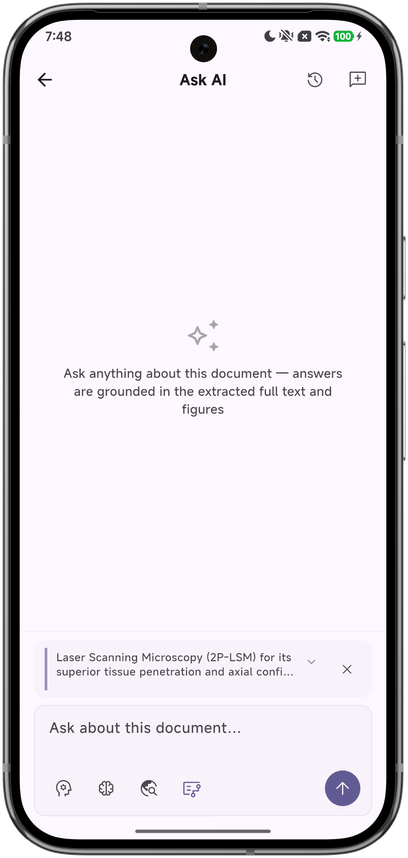
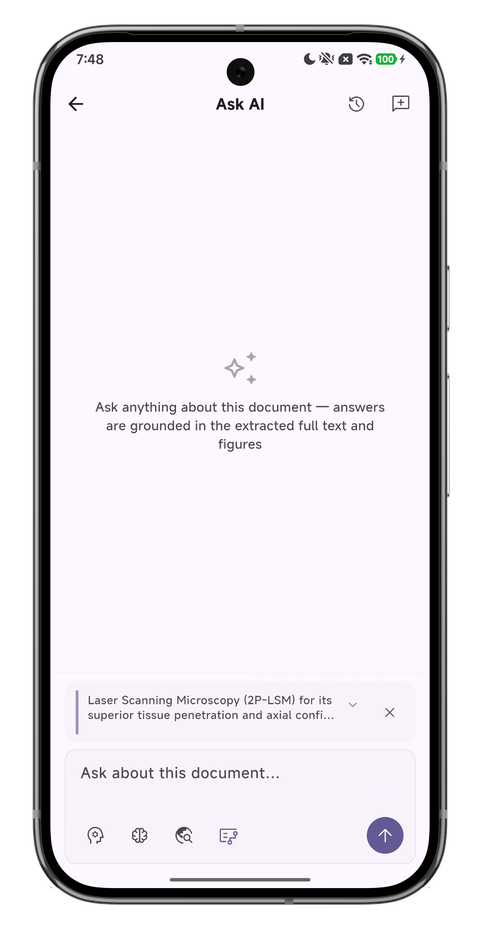
docs(readme): rewrite readmes with natural tone

diff --git a/scripts/frame_screenshots.py b/scripts/frame_screenshots.py
@@ -1,0 +1,82 @@
+"""将 docs 下的手机截图套上 Google Pixel 9 Pro 机框。
+
+机框资源：scripts/device_frames/pixel9pro_obsidian.png
+来源：https://github.com/jamesjingyi/mockup-device-frames (Pixel 9 Pro Obsidian)
+"""
+
+from __future__ import annotations
+
+from pathlib import Path
+
+from PIL import Image
+
+ROOT = Path(__file__).resolve().parent.parent
+DOCS = ROOT / "docs"
+FRAME_PATH = Path(__file__).resolve().parent / "device_frames" / "pixel9pro_obsidian.png"
+
+# Pixel 9 Pro Obsidian frame：透明洞为屏幕区域
+# frame size 1620x3136, screen hole (170, 142) – (1449, 2997) = 1280x2856
+SCREEN = (170, 142, 1449, 2997)  # left, top, right, bottom inclusive
+
+# README 展示用输出宽度（保持比例）
+OUT_WIDTH = 480
+
+SOURCES = [
+    "PDF_reader.png",
+    "immersive_reading_experience.png",
+    "extract_figures_for_reading.png",
+    "ask_anything_with_fullcontext.png",
+]
+
+
+def frame_screenshot(src_path: Path, frame: Image.Image, out_path: Path) -> None:
+    src = Image.open(src_path).convert("RGBA")
+    sw, sh = src.size
+
+    sl, st, sr, sb = SCREEN
+    tw, th = sr - sl + 1, sb - st + 1
+
+    # cover-fit 填满屏幕后居中裁切
+    scale = max(tw / sw, th / sh)
+    nw, nh = int(sw * scale + 0.5), int(sh * scale + 0.5)
+    src_r = src.resize((nw, nh), Image.Resampling.LANCZOS)
+    left = (nw - tw) // 2
+    top = (nh - th) // 2
+    src_r = src_r.crop((left, top, left + tw, top + th))
+
+    canvas = Image.new("RGBA", frame.size, (0, 0, 0, 0))
+    canvas.paste(src_r, (sl, st))
+    # 机框叠在上方：边框/侧键/挖孔摄像头盖住截图
+    result = Image.alpha_composite(canvas, frame)
+
+    # 缩到 README 友好尺寸
+    out_h = int(result.height * OUT_WIDTH / result.width + 0.5)
+    result = result.resize((OUT_WIDTH, out_h), Image.Resampling.LANCZOS)
+    result.save(out_path, "PNG", optimize=True)
+    print(f"  -> {out_path.name} {result.size}")
+
+
+def main() -> None:
+    if not FRAME_PATH.exists():
+        raise SystemExit(
+            f"缺少机框: {FRAME_PATH}\n"
+            "请从 jamesjingyi/mockup-device-frames 下载 Pixel 9 Pro Obsidian PNG。"
+        )
+
+    frame = Image.open(FRAME_PATH).convert("RGBA")
+    print(f"机框: {FRAME_PATH.name} {frame.size}")
+
+    for name in SOURCES:
+        src = DOCS / name
+        if not src.exists():
+            print(f"  skip missing {name}")
+            continue
+        out = DOCS / name.replace(".png", "_framed.png")
+        print(f"Framing {name}...")
+        frame_screenshot(src, frame, out)
+
+    print("Done.")
+
+
+if __name__ == "__main__":
+    main()

diff --git a/README.md b/README.md
@@ -4,7 +4,7 @@
 
 # OtterPad
 
-**AI-Powered Academic Literature Reader & Manager**
+**Mobile Academic Literature Reader & Manager**
 
 [![Flutter](https://img.shields.io/badge/Flutter-3.x-02569B?logo=flutter&logoColor=white)](https://flutter.dev)
 [![License](https://img.shields.io/github/license/Cyli00/NightReader)](./LICENSE)
@@ -14,74 +14,81 @@ English | [简体中文](docs/README_zh.md)
 
 </div>
 
-## What is this?
+## Why OtterPad?
 
-OtterPad is an academic literature reading and management tool with integrated AI workflows, helping researchers efficiently read, understand, and manage papers.
+Reading PDF papers on a phone is a miserable experience — cramped layout, tiny text, constant zooming and panning. Some reading apps can reflow imported PDFs into HTML for easier reading (WeChat Reading, Apple Books, Kindle), but the reflow often breaks the page structure and drops figures and tables, making things worse instead of better. With what AI can do today, reading academic papers on mobile should be comfortable and interactive.
 
-- 📖 Immersive PDF reading with customizable themes and typography
-- 🤖 AI-powered full-text Q&A grounded in extracted text and figures
-- 🌐 Document-level paragraph translation preserving formulas and code blocks
-- 🔍 Multi-source literature search and metadata resolution
-- 📊 Intelligent figure/table extraction and standalone viewing
+OtterPad uses PaddleOCR-VL under the hood to power a figure extraction and layout reflow engine that adapts PDF content for small screens while keeping figures, tables, and formulas intact. Full-text translation and AI Q&A round it out, so you can actually get through a paper on your phone.
 
 <div align="center">
 
-| Immersive Reading | AI Full-Text Q&A |
+| PDF Reader | Immersive Reading |
 |:---:|:---:|
-| <img src="./docs/immersive_reading_experience_framed.png" width="280px"/> | <img src="./docs/ask_anything_with_fullcontext_framed.png" width="280px"/> |
+| <img src="./docs/PDF_reader_framed.png" width="280px" alt="PDF Reader"/> | <img src="./docs/immersive_reading_experience_framed.png" width="280px" alt="Immersive Reading"/> |
+
+| Figure Extraction | AI Full-Text Q&A |
+|:---:|:---:|
+| <img src="./docs/extract_figures_for_reading_framed.png" width="280px" alt="Figure Extraction"/> | <img src="./docs/ask_anything_with_fullcontext_framed.png" width="280px" alt="AI Full-Text Q&A"/> |
 
 </div>
 
-## Features
+## What It Does
 
-### Reading & Translation
-- **Immersive Reading** — Customizable theme colors, font sizes, highlighting and annotations
-- **Paragraph-Level Translation** — 8 concurrent workers translating paragraph by paragraph, automatically protecting formulas / code / citation numbers
-- **Figure Extraction** — Accurately identifies figures and tables in PDFs for standalone viewing and copying
+### Reading & Reflow
 
-### AI Understanding
-- **Full-Text Q&A** — AI answers any question about the document, grounded in extracted full text and figures
-- **Multi-Model Support** — OpenAI / Anthropic / Google / compatible APIs, switch freely
-- **Smart Summary** — AI-generated key takeaways from papers
+- PDF layout reflow optimized for mobile screens, preserving figures, tables, and formulas
+- Customizable themes, font sizing, with highlighting and annotation support
 
-### Literature Management
-- **Multi-Source Search** — Search via DOI / PubMed / Crossref / Semantic Scholar and more
-- **AI Rename** — Intelligent file naming based on metadata
-- **Collections & Tags** — Custom categorization and tagging system
-- **Zotero Sync** — Two-way sync with your Zotero library
+### Figure Extraction
 
-### Data Safety
-- **Cloud Backup** — S3 / WebDAV cloud backup and restore
-- **Auto Backup** — Configurable scheduled automatic backups
+- Automatic figure and table detection and extraction powered by PaddleOCR-VL
+- Standalone viewing, copying, and sharing of extracted figures
+
+### Translation & Q&A
+
+- Document-level paragraph translation with automatic protection of formulas, code blocks, and citation markers
+- Full-text Q&A grounded in the extracted text and figures, reducing hallucination
+- Supports OpenAI, Anthropic, Google, and compatible API providers
+
+### Paper Management
+
+- Multi-source search and metadata resolution via DOI, PubMed, Crossref, Semantic Scholar, etc.
+- AI-powered file renaming, custom categories and tags, two-way Zotero sync
+- Cloud backup and restore (S3 / WebDAV) with configurable auto-backup
 
 ## Installation
 
-Download the APK for your architecture from [Releases](https://github.com/Cyli00/NightReader/releases):
+Grab the APK for your architecture from [Releases](https://github.com/Cyli00/NightReader/releases):
 - `arm64-v8a` — Most modern Android devices
 - `armeabi-v7a` — Older 32-bit devices
 - `x86_64` — Emulators / ChromeOS
 
-> Desktop and iOS builds are planned but not yet available.
+> Desktop and iOS builds are in progress.
 
-## Tech Stack
+## Development
 
-- **Framework** — Flutter 3.x + Dart 3.x
-- **State Management** — Riverpod
-- **Routing** — GoRouter
-- **Storage** — Hive (local) + Flutter Secure Storage (credentials)
-- **Networking** — Dio + HTTP/2
-- **Design Language** — Material Design 3
+This project was built with the help of [Claude Code](https://claude.com/claude-code), using Flutter 3.x + Dart 3.x.
+
+| Layer | Stack |
+| :--- | :--- |
+| Framework | Flutter 3.x + Dart 3.x |
+| State Management | Riverpod |
+| Routing | GoRouter |
+| Local Storage | Hive + Flutter Secure Storage (credentials) |
+| Networking | Dio + HTTP/2 |
+| OCR / Layout Analysis | PaddleOCR-VL |
+| Design | Material Design 3 |
 
 ## Acknowledgements
 
-OtterPad stands on the shoulders of these excellent open-source projects and communities:
+These projects and communities provided valuable reference and support:
 
 - [PiliPlus](https://github.com/bggRGjQaUbCoE/PiliPlus) — Third-party BiliBili client built with Flutter
 - [PDFMathTranslate](https://github.com/PDFMathTranslate/PDFMathTranslate) — AI-powered PDF translation preserving full layout (EMNLP 2025)
 - [FlClash](https://github.com/chen08209/FlClash) — Multi-platform proxy client based on ClashMeta
 - [Kelivo](https://github.com/Chevey339/kelivo) — Multi-platform LLM chat client built with Flutter
-- [LINUX DO](https://linux.do/) — A sincere, friendly, united, and professional tech community for invaluable feedback and support
+- [LINUX DO](https://linux.do/) — A sincere, friendly, and professional tech community for invaluable feedback and support
 
 ## License
 
-This project is licensed under [GPL-3.0](./LICENSE).
+Licensed under [GPL-3.0](./LICENSE).

diff --git a/docs/README_zh.md b/docs/README_zh.md
@@ -4,7 +4,7 @@
 
 # 獭祭鱼 OtterPad
 
-**AI 驱动的学术文献阅读与管理工具**
+**移动端学术文献阅读与管理工具**
 
 [![Flutter](https://img.shields.io/badge/Flutter-3.x-02569B?logo=flutter&logoColor=white)](https://flutter.dev)
 [![License](https://img.shields.io/github/license/Cyli00/NightReader)](../LICENSE)
@@ -14,67 +14,74 @@
 
 </div>
 
-## 这是什么？
+## 项目背景
 
-OtterPad 是一款学术文献阅读与管理工具，集成 AI 工作流，帮助科研工作者高效阅读、理解和管理文献。
+在手机上读 PDF 论文是个很折磨的过程——排版挤、字号小、来回缩放。市面上一些阅读软件虽然能把导入的 PDF 文件重排为 html 格式阅读（如微信读书、Apple Books、Kindle），但重排之后版面乱、图表丢，读着反而更费劲。AI 发展到今天，应该让学术文献在移动端也能舒服地读、方便地交互。
 
-- 📖 沉浸式 PDF 阅读，自定义主题与排版
-- 🤖 AI 全文问答，基于提取的完整文本和图表回答问题
-- 🌐 文档级段落翻译，保留公式与代码块
-- 🔍 多数据源文献搜索与元数据解析
-- 📊 图表智能提取与独立浏览
+OtterPad 在 PaddleOCR-VL 的基础上做了一套图表提取与版面重排引擎，把 PDF 转成适合小屏阅读的排版，同时保留图表和公式。再加上全文翻译和 AI 问答，让读论文这件事在手机上不再痛苦。
 
 <div align="center">
 
-| 沉浸式阅读 | AI 全文问答 |
+| PDF 阅读 | 沉浸式阅读 |
 |:---:|:---:|
-| <img src="./immersive_reading_experience_framed.png" width="280px"/> | <img src="./ask_anything_with_fullcontext_framed.png" width="280px"/> |
+| <img src="./PDF_reader_framed.png" width="280px" alt="PDF 阅读"/> | <img src="./immersive_reading_experience_framed.png" width="280px" alt="沉浸式阅读"/> |
+
+| 图表提取 | AI 全文问答 |
+|:---:|:---:|
+| <img src="./extract_figures_for_reading_framed.png" width="280px" alt="图表提取"/> | <img src="./ask_anything_with_fullcontext_framed.png" width="280px" alt="AI 全文问答"/> |
 
 </div>
 
-## 功能特性
+## 主要功能
 
-### 阅读与翻译
-- **沉浸式阅读** — 自定义主题配色、字号排版，支持高亮与标注
-- **段落级翻译** — 8 并发 worker 逐段翻译，自动保护公式/代码/引用编号
-- **图表提取** — 精准识别 PDF 中的 figure/table，支持独立查看和复制
+### 阅读与重排
 
-### AI 理解
-- **全文问答** — 基于提取的完整文本与图表，AI 回答关于文档的任何问题
-- **多模型支持** — OpenAI / Anthropic / Google / 兼容 API，自由切换
-- **智能摘要** — AI 生成文献要点总结
+- PDF 版面重排，适配移动端小屏阅读，保留图表和公式
+- 自定义主题配色、字号排版，支持高亮与批注
+
+### 图表提取
+
+- 基于 PaddleOCR-VL 自动识别和提取 PDF 中的图表
+- 图表独立查看、复制、分享
+
+### 翻译与问答
+
+- 文档级段落翻译，自动保护公式、代码块和引用编号
+- 全文 AI 问答，基于提取后的完整文本和图表回答，降低幻觉
+- 支持 OpenAI / Anthropic / Google 等多种模型
 
 ### 文献管理
-- **多源搜索** — 通过 DOI / PubMed / Crossref / Semantic Scholar 等检索文献
-- **AI 重命名** — 基于元数据的智能文件命名
-- **分类收藏** — 自定义分类体系与标签
-- **Zotero 同步** — 双向同步 Zotero 文献库
 
-### 数据安全
-- **云备份** — 支持 S3 / WebDAV 云端备份与恢复
-- **自动备份** — 可配置的定时自动备份策略
+- DOI / PubMed / Crossref / Semantic Scholar 等多源检索与元数据解析
+- AI 自动命名、分类标签、Zotero 双向同步
+- 云备份与恢复（S3 / WebDAV），支持定时自动备份
 
 ## 安装
 
-前往 [Releases](https://github.com/Cyli00/NightReader/releases) 下载对应架构的 APK：
+从 [Releases](https://github.com/Cyli00/NightReader/releases) 下载对应架构的 APK：
 - `arm64-v8a` — 大多数现代 Android 设备
 - `armeabi-v7a` — 较旧的 32 位设备
 - `x86_64` — 模拟器 / ChromeOS
 
-> 桌面端和 iOS 版本正在规划中，尚未发布。
+> 桌面端和 iOS 版本尚在开发中。
 
-## 技术栈
+## 开发
 
-- **框架** — Flutter 3.x + Dart 3.x
-- **状态管理** — Riverpod
-- **路由** — GoRouter
-- **存储** — Hive (本地) + Flutter Secure Storage (凭据)
-- **网络** — Dio + HTTP/2
-- **设计语言** — Material Design 3
+本项目使用 [Claude Code](https://claude.com/claude-code) 辅助开发，基于 Flutter 3.x + Dart 3.x。
+
+| 层面 | 选型 |
+| :--- | :--- |
+| 框架 | Flutter 3.x + Dart 3.x |
+| 状态管理 | Riverpod |
+| 路由 | GoRouter |
+| 本地存储 | Hive + Flutter Secure Storage（凭据） |
+| 网络 | Dio + HTTP/2 |
+| OCR / 版面分析 | PaddleOCR-VL |
+| 设计 | Material Design 3 |
 
 ## 致谢
 
-OtterPad 站在以下优秀开源项目和社区的肩膀上：
+以下项目和社区为本项目提供了重要参考和支持：
 
 - [PiliPlus](https://github.com/bggRGjQaUbCoE/PiliPlus) — 基于 Flutter 的第三方 BiliBili 客户端
 - [PDFMathTranslate](https://github.com/PDFMathTranslate/PDFMathTranslate) — AI 驱动的 PDF 翻译，完整保留排版（EMNLP 2025）
